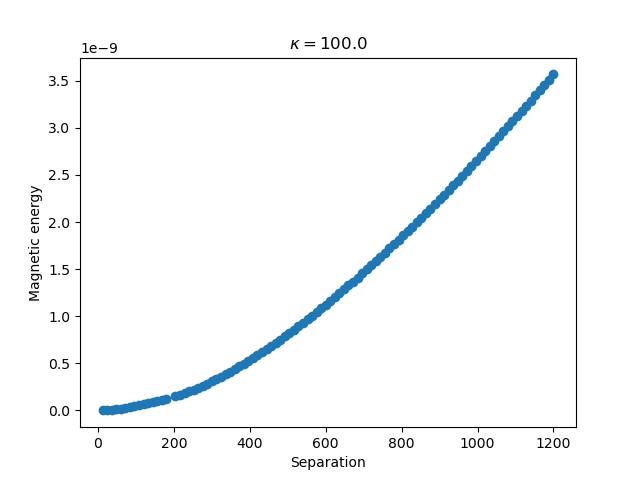
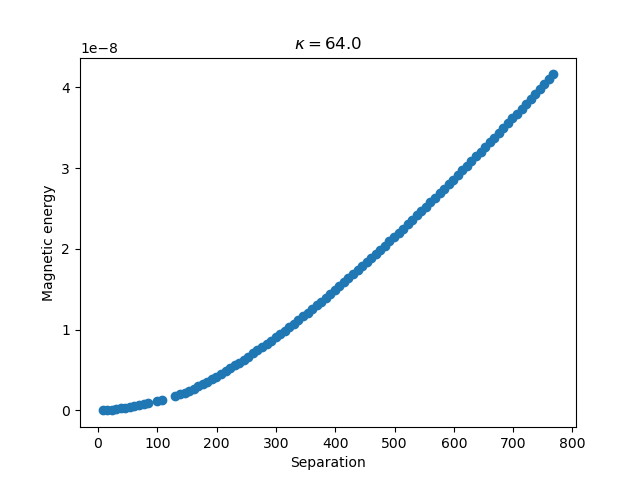
checking electrostatic energy

diff --git a/solver_rec.py b/solver_rec.py
@@ -178,6 +178,8 @@ solution0[-NUNV:] = solution_reduced[-NUNV:]
 if ier != 1:
     raise Exception('Electrostatic solution not found')
 
+solution = solution0
+"""
 def solvefor(N, N0, x0):
     def f_reduced(V_Fu_Fv_C):
         return f(V_Fu_Fv_C, N)
@@ -193,7 +195,7 @@ def solvefor(N, N0, x0):
 
 solution = solvefor(N, 0, solution0)
 ier = 1
-
+"""
 V, Fu, Fv, C = unpack(solution)
 
 V_u = dV_du(V, n = 1)
@@ -220,7 +222,7 @@ for i, u in enumerate(us):
         B_args = [Fu[i,j], Fu_u[i,j], Fu_v[i,j], Fu_uu[i,j], Fu_uv[i,j], Fu_vv[i,j]]
         B_args.extend([Fv[i,j], Fv_u[i,j], Fv_v[i,j], Fv_uu[i,j], Fv_uv[i,j], Fv_vv[i,j]])
         B_args.extend([u, v, A, N])
-        B[i,j] = B_lambdified(*B_args)
+        #B[i,j] = B_lambdified(*B_args)
 
 electric_energy_density = (Eu**2 + Ev**2)/2
 magnetic_energy_density = (B**2)/2

diff --git a/plot_energy.py b/plot_energy.py
@@ -71,7 +71,7 @@ plt.scatter(separations[1:], electro_d, label = 'Electromagnetic')
 plt.scatter(separations[1:], hydro_d, label = 'Hydraulic')
 plt.scatter(separations[1:], total_d, label = 'Total')
 plt.axhline(0)
-plt.ylim(-1e-9,1e-9)
+plt.ylim(-1e-8,1e-8)
 plt.ylabel('d Energy / d Separation')
 plt.xlabel('Separation')
 plt.legend()

diff --git a/coords.py b/coords.py
@@ -6,6 +6,7 @@ import numpy as np
 v, vp, a, j = symbols('v v_p a j')
 
 v_of_vp= ln((1+vp)/(1-vp))
+#v_of_vp=  ln((1+vp)/(1-vp)) / 10
 
 """
 k = (-4/j)**(1/4)
